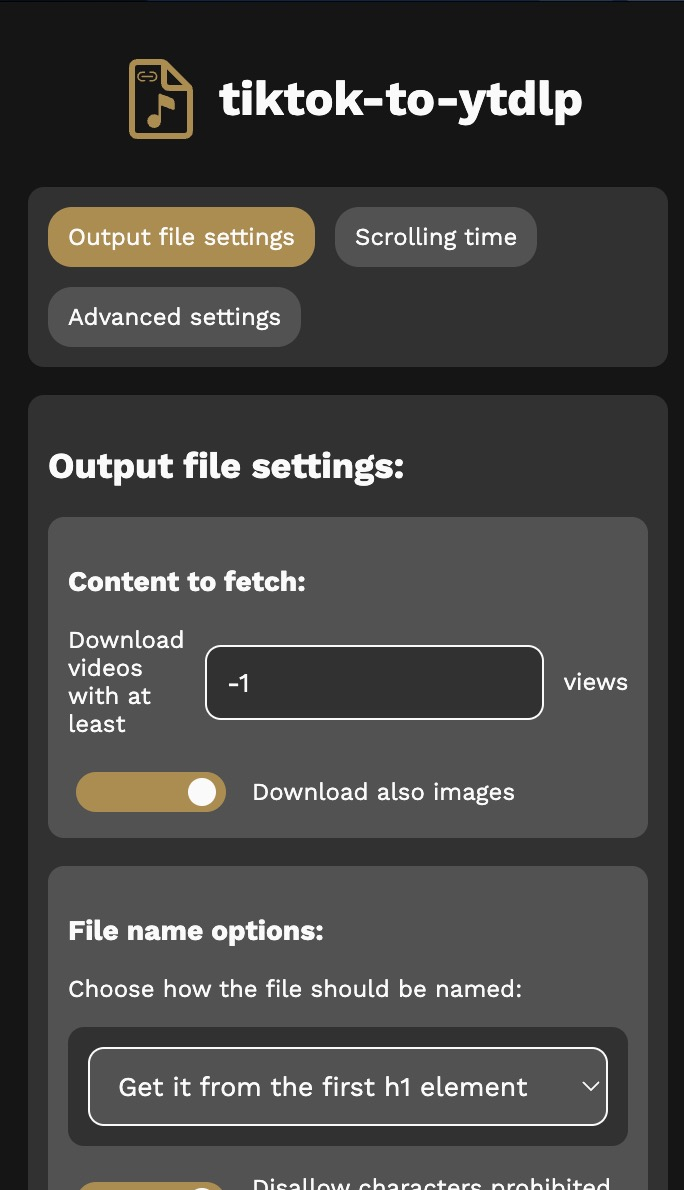
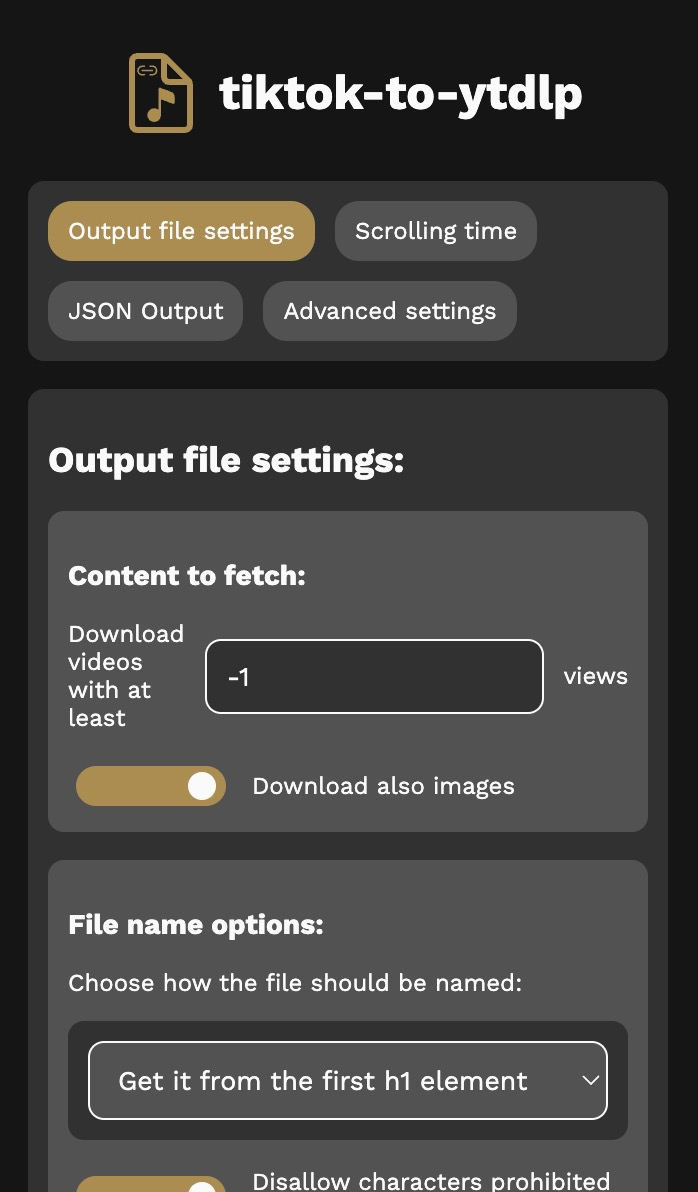
Customize JSON output & general script improvements (#20)
- Customize JSON output: it's now possible to choose which keys should be saved in the output JSON file, both from the console and from the extension (https://github.com/Dinoosauro/tiktok-to-ytdlp/pull/19#issuecomment-2192085901)
- Changed how the extension handles older Firefox versions that don't support the "chrome" namespace
- Now a "source.zip" file is built for the extension release, that contains everything necessary for building the extension
- Improved the usage of variables in the script: only the global values are stored with "var" so that they can be re-written in Gecko and WebKit, but there is no need to use them in the functions
- Improved the script documentation, by adding descriptions directly tied to functions and variables

diff --git a/script.js b/script.js
@@ -1,4 +1,4 @@
-// Using var so that the script can be re-used also in WebKit & Gecko
+// Using var in the global part of the script so that the script can be re-used also in WebKit & Gecko
 var scriptOptions = {
     scrolling_min_time: 1300, // Change the mininum time the script will try to refresh the page
     scrolling_max_time: 2100, // Change the maxinum time the script will try to refresh the page
@@ -8,6 +8,7 @@ var scriptOptions = {
     adapt_text_output: true, // Replace characters that are prohibited on Windows
     allow_images: true, // Save also TikTok Image URLs
     export_format: "txt", // Put "json" to save everything as a JSON file.
+    exclude_from_json: [], // If you plan to export the content in a JSON file, here you can exclude some properties from the JSON output. You can exclude "url", "views", "caption".
     advanced: {
         get_array_after_scroll: false, // Gets the item links after the webpage is fully scrolled, and not after every scroll.
         get_link_by_filter: true, // Get the website link by inspecting all the links in the container div, instead of looking for data references.
@@ -21,7 +22,11 @@ var scriptOptions = {
         isResolveTime: false
     }
 }
-function nodeElaborateCustomArgs(customTypes) { // A function that is able to read a double array, composed with [["the property name", "the property value"]], and change the value of the scriptOptions array
+/**
+ * A function that is able to read a double array, composed with `[["the property name", "the property value"]]`, and change the value of the scriptOptions array
+ * @param {string[][]} customTypes the double array
+ */
+function nodeElaborateCustomArgs(customTypes) {
     if ((customTypes ?? "") !== "") { // If the provided value isn't nullish
         customTypes.forEach(e => { // Get each value
             var optionChange = e[0].split("=>"); // The arrow (=>) is used to indicate that the property is in a nested object (ex: advanced=>log_link_error).
@@ -31,8 +36,17 @@ function nodeElaborateCustomArgs(customTypes) { // A function that is able to re
 }
 // SCRIPT START:
 var height = document.body.scrollHeight;
-var containerSets = new Map([]);
-var skipLinks = []; // Array: [Video link to skip]
+/**
+ * A Map that contains the video URL as its key, and the video views and caption as its value
+ */
+var containerMap = new Map([]);
+/**
+ * The array of video links to skip
+ */
+var skipLinks = [];
+/**
+ * Scroll the webpage
+ */
 function loadWebpage() {
     if (document.querySelectorAll(".tiktok-qmnyxf-SvgContainer").length === 0) { // Checks if the SVG loading animation is present in the DOM
         window.scrollTo({ top: document.body.scrollHeight, behavior: 'smooth' }); // Scroll to the bottom of the page
@@ -40,7 +54,7 @@ function loadWebpage() {
             if (height !== document.body.scrollHeight) { // The webpage has scrolled the previous time, so we can try another scroll
                 if (!scriptOptions.advanced.get_array_after_scroll) {
                     addArray();
-                    if (scriptOptions.advanced.maximum_downloads < (Array.from(containerSets).length + skipLinks.length)) { // If the number of fetched items is above the permitted one, download the script and don't do anything.
+                    if (scriptOptions.advanced.maximum_downloads < (Array.from(containerMap).length + skipLinks.length)) { // If the number of fetched items is above the permitted one, download the script and don't do anything.
                         ytDlpScript();
                         return;
                     }
@@ -67,50 +81,80 @@ function loadWebpage() {
         }, 1000);
     }
 }
+/**
+ * Elaborate items in the page
+ */
 function addArray() {
-    var getClass = document.querySelectorAll(".tiktok-x6y88p-DivItemContainerV2, .css-x6y88p-DivItemContainerV2, .css-1soki6-DivItemContainerForSearch"); // Class of every video container
-    for (var i = 0; i < getClass.length; i++) {
-        // Simple information scraping: the link (getLink) is put in the first array, while the views (getViews) are put in the second one
-        if (!getClass[i]) continue; // Skip nullish results
-        var getLink = scriptOptions.advanced.get_link_by_filter ? Array.from(getClass[i].querySelectorAll("a")).filter(e => e.href.indexOf("/video/") !== -1 || e.href.indexOf("/photo/") !== -1)[0]?.href : getClass[i].querySelector("[data-e2e=user-post-item-desc], [data-e2e=user-liked-item], [data-e2e=music-item], [data-e2e=user-post-item], [data-e2e=favorites-item], [data-e2e=challenge-item], [data-e2e=search_top-item]")?.querySelector("a")?.href; // If the new filter method is selected, the script will look for the first link that contains a video link structure. Otherwise, the script'll look for data tags that contain the video URL.
+    for (const tikTokItem of document.querySelectorAll(".tiktok-x6y88p-DivItemContainerV2, .css-x6y88p-DivItemContainerV2, .css-1soki6-DivItemContainerForSearch")) { // Class of every video container
+        if (!tikTokItem) continue; // Skip nullish results
+        const getLink = scriptOptions.advanced.get_link_by_filter ? Array.from(tikTokItem.querySelectorAll("a")).filter(e => e.href.indexOf("/video/") !== -1 || e.href.indexOf("/photo/") !== -1)[0]?.href : tikTokItem.querySelector("[data-e2e=user-post-item-desc], [data-e2e=user-liked-item], [data-e2e=music-item], [data-e2e=user-post-item], [data-e2e=favorites-item], [data-e2e=challenge-item], [data-e2e=search_top-item]")?.querySelector("a")?.href; // If the new filter method is selected, the script will look for the first link that contains a video link structure. Otherwise, the script'll look for data tags that contain the video URL.
         if (!scriptOptions.allow_images && getLink.indexOf("/photo/") !== -1) continue; // Avoid adding photo if the user doesn't want to.
         if (scriptOptions.advanced.check_nullish_link && (getLink ?? "") === "") { // If the script needs to check if the link is nullish, and it's nullish...
             if (scriptOptions.advanced.log_link_error) console.log("SCRIPT ERROR: Failed to get link!"); // If the user wants to print the error in the console, write it
             continue; // And, in general, continue with the next link.
         }
         if (skipLinks.indexOf(getLink) === -1) {
-            var views = getClass[i].querySelector("[data-e2e=video-views]")?.innerHTML ?? "0";
-            var caption = getClass[i].querySelector(".css-vi46v1-DivDesContainer a span")?.textContent;
-            containerSets.set(getLink, { views: `${views.replace(".", "").replace("K", "00").replace("M", "00000")}${(views.indexOf("K") !== -1 || views.indexOf("M") !== -1) && views.indexOf(".") === -1 ? "0" : ""}`, caption })
+            const views = tikTokItem.querySelector("[data-e2e=video-views]")?.innerHTML ?? "0";
+            const caption = tikTokItem.querySelector(".css-vi46v1-DivDesContainer a span")?.textContent;
+            containerMap.set(getLink, { views: `${views.replace(".", "").replace("K", "00").replace("M", "00000")}${(views.indexOf("K") !== -1 || views.indexOf("M") !== -1) && views.indexOf(".") === -1 ? "0" : ""}`, caption })
         }
     }
 }
-function sanitizeName(name) { // Replace a name with allowed Windows characters.
+/**
+ * Replace a name with allowed Windows characters.
+ * @param {string} name 
+ * @returns the "sanitized" string
+ */
+function sanitizeName(name) {
     return name.replaceAll("<", "‹").replaceAll(">", "›").replaceAll(":", "∶").replaceAll("\"", "″").replaceAll("/", "∕").replaceAll("\\", "∖").replaceAll("|", "¦").replaceAll("?", "¿").replaceAll("*", "");
 }
+/**
+ * Delete the keys that the user doesn't want in the output JSON
+ * @param {any} obj 
+ * @returns the object without those keys
+ */
+function deleteUnrequestedContent(obj) {
+    for (const key in obj) if (scriptOptions.exclude_from_json.indexOf(key) !== -1) delete obj[key];
+    if (Object.keys(obj).length === 1) return obj[Object.keys(obj)[0]];
+    return obj;
+}
+/**
+ * Generate the output file
+ * @returns if running on Node, a string array or an Object. If running on the console, undefined.
+ */
 function ytDlpScript() {
     addArray(); // Add the last elements in the DOM, or all the elements if get_array_after_scroll is set to true.
     // Create the txt file with all of the TikTok links.
-    var ytDlpScript = scriptOptions.export_format === "json" ? [] : "";
-    for (var [url, obj] of Array.from(containerSets)) {
+    let ytDlpScript = scriptOptions.export_format === "json" ? [] : "";
+    for (const [url, obj] of Array.from(containerMap)) {
         if (+obj.views < scriptOptions.min_views) continue;
-        scriptOptions.export_format === "json" ? ytDlpScript.push({ ...obj, url }) : ytDlpScript += `${url}\n`;
+        scriptOptions.export_format === "json" ? ytDlpScript.push(deleteUnrequestedContent({ ...obj, url })) : ytDlpScript += `${url}\n`;
     }
     if (scriptOptions.node.isNode && !scriptOptions.node.isResolveTime) return getWhatToReturn(ytDlpScript); else downloadScript(typeof ytDlpScript === "object" ? JSON.stringify(ytDlpScript) : ytDlpScript); // If the user has requested from Node to get the array, get it
 }
-function getWhatToReturn(content) { // Get if a JSON object array should be returned, or if a splitted string.
+/**
+ * Get if a JSON object array should be returned, or if a splitted string.
+ * @param {any | string} content the content that needs to be returned
+ * @returns the content to return
+ */
+function getWhatToReturn(content) {
     return typeof content === "object" ? content : content.split("\n");
 }
-function downloadScript(script, force) { // Download the script text to a file
+/**
+ * Download the script text to a file
+ * @param {string} script the content of the output file
+ * @param {boolean} force force download of the script, even if on Node
+ */
+function downloadScript(script, force) {
     if (scriptOptions.node.isNode && !force) {
         if (scriptOptions.node.isResolveTime) scriptOptions.node.resolve(getWhatToReturn(script)); else return getWhatToReturn(script);
         scriptOptions.node.resolve = null;
         scriptOptions.node.isResolveTime = false;
         return;
     }
-    var blob = new Blob([script], { type: "text/plain" }); // Create a blob with the text
-    var link = document.createElement("a");
-    var name = `TikTokLinks.${scriptOptions.export_format}`; // Set the standard name
+    const blob = new Blob([script], { type: "text/plain" }); // Create a blob with the text
+    const link = document.createElement("a");
+    let name = `TikTokLinks.${scriptOptions.export_format}`; // Set the standard name
     switch (scriptOptions.output_name_type) { // Look at the type of the name
         case 0: // Fetch name from data tags
             name = document.querySelector("[data-e2e=user-title]")?.textContent.trim() ?? document.querySelector("[data-e2e=browse-username]")?.firstChild?.textContent.trim() ?? document.querySelector("[data-e2e=browse-username]")?.textContent.trim() ?? document.querySelector("[data-e2e=challenge-title]")?.textContent.trim() ?? document.querySelector("[data-e2e=music-title]")?.textContent.trim() ?? `TikTokLinks.${scriptOptions.export_format}`;
@@ -129,12 +173,15 @@ function downloadScript(script, force) { // Download the script text to a file
     link.click();
     URL.revokeObjectURL(link.href);
 }
+/**
+ * Write requestTxtNow() in the console to obtain the .txt file while converting. Useful if you have lots of items, and you want to start downloading them.
+ * @returns the current script
+ */
 function requestTxtNow() {
-    // Write requestTxtNow() in the console to obtain the .txt file while converting. Useful if you have lots of items, and you want to start downloading them.
-    var value = ytDlpScript();
+    const value = ytDlpScript();
     if (scriptOptions.delete_from_next_txt) { // If delete_from_next_txt is enabled, delete the old items, so that only the newer ones will be downloaded.
-        skipLinks.push(...Array.from(containerSets).map(item => item[0]));
-        containerSets = new Map([]);
+        skipLinks.push(...Array.from(containerMap).map(item => item[0]));
+        containerMap = new Map([]);
     }
     return value;
 }

diff --git a/extension/script.min.js b/extension/script.min.js
@@ -1,0 +1,2 @@
+var scriptOptions={scrolling_min_time:1300,scrolling_max_time:2100,min_views:-1,delete_from_next_txt:!0,output_name_type:2,adapt_text_output:!0,allow_images:!0,export_format:"txt",exclude_from_json:[],advanced:{get_array_after_scroll:!1,get_link_by_filter:!0,check_nullish_link:!0,log_link_error:!0,maximum_downloads:1/0},node:{resolve:null,isNode:!1,isResolveTime:!1}};function nodeElaborateCustomArgs(e){""!==(e??"")&&e.forEach(e=>{var t=e[0].split("=>");1===t.length?scriptOptions[e[0]]=e[1]:scriptOptions[t[0]][t[1]]=e[1]})}var height=document.body.scrollHeight,containerMap=new Map([]),skipLinks=[];function loadWebpage(){0===document.querySelectorAll(".tiktok-qmnyxf-SvgContainer").length?(window.scrollTo({top:document.body.scrollHeight,behavior:"smooth"}),setTimeout(()=>{height!==document.body.scrollHeight?!scriptOptions.advanced.get_array_after_scroll&&(addArray(),scriptOptions.advanced.maximum_downloads<Array.from(containerMap).length+skipLinks.length)?ytDlpScript():setTimeout(()=>{height=document.body.scrollHeight,loadWebpage()},Math.floor(Math.random()*scriptOptions.scrolling_max_time+scriptOptions.scrolling_min_time)):setTimeout(()=>{0===document.querySelectorAll(".tiktok-qmnyxf-SvgContainer").length&&height==document.body.scrollHeight?(scriptOptions.node.isResolveTime=!0,ytDlpScript(),skipLinks=[]):loadWebpage()},3500)},150)):setTimeout(function(){loadWebpage()},1e3)}function addArray(){for(var e of document.querySelectorAll(".tiktok-x6y88p-DivItemContainerV2, .css-x6y88p-DivItemContainerV2, .css-1soki6-DivItemContainerForSearch")){var t,o;e&&(t=(scriptOptions.advanced.get_link_by_filter?Array.from(e.querySelectorAll("a")).filter(e=>-1!==e.href.indexOf("/video/")||-1!==e.href.indexOf("/photo/"))[0]:e.querySelector("[data-e2e=user-post-item-desc], [data-e2e=user-liked-item], [data-e2e=music-item], [data-e2e=user-post-item], [data-e2e=favorites-item], [data-e2e=challenge-item], [data-e2e=search_top-item]")?.querySelector("a"))?.href,!scriptOptions.allow_images&&-1!==t.indexOf("/photo/")||(scriptOptions.advanced.check_nullish_link&&""===(t??"")?scriptOptions.advanced.log_link_error&&console.log("SCRIPT ERROR: Failed to get link!"):-1===skipLinks.indexOf(t)&&(o=e.querySelector("[data-e2e=video-views]")?.innerHTML??"0",e=e.querySelector(".css-vi46v1-DivDesContainer a span")?.textContent,containerMap.set(t,{views:""+o.replace(".","").replace("K","00").replace("M","00000")+(-1===o.indexOf("K")&&-1===o.indexOf("M")||-1!==o.indexOf(".")?"":"0"),caption:e}))))}}function sanitizeName(e){return e.replaceAll("<","‹").replaceAll(">","›").replaceAll(":","∶").replaceAll('"',"″").replaceAll("/","∕").replaceAll("\\","∖").replaceAll("|","¦").replaceAll("?","¿").replaceAll("*","")}function deleteUnrequestedContent(e){for(var t in e)-1!==scriptOptions.exclude_from_json.indexOf(t)&&delete e[t];return 1===Object.keys(e).length?e[Object.keys(e)[0]]:e}function ytDlpScript(){addArray();let e="json"===scriptOptions.export_format?[]:"";for(var[t,o]of Array.from(containerMap))+o.views<scriptOptions.min_views||("json"===scriptOptions.export_format?e.push(deleteUnrequestedContent({...o,url:t})):e+=t+`
+`);if(scriptOptions.node.isNode&&!scriptOptions.node.isResolveTime)return getWhatToReturn(e);downloadScript("object"==typeof e?JSON.stringify(e):e)}function getWhatToReturn(e){return"object"==typeof e?e:e.split("\n")}function downloadScript(e,t){if(scriptOptions.node.isNode&&!t)return scriptOptions.node.isResolveTime?(scriptOptions.node.resolve(getWhatToReturn(e)),scriptOptions.node.resolve=null,void(scriptOptions.node.isResolveTime=!1)):getWhatToReturn(e);t=new Blob([e],{type:"text/plain"}),e=document.createElement("a");let o="TikTokLinks."+scriptOptions.export_format;switch(scriptOptions.output_name_type){case 0:o=document.querySelector("[data-e2e=user-title]")?.textContent.trim()??document.querySelector("[data-e2e=browse-username]")?.firstChild?.textContent.trim()??document.querySelector("[data-e2e=browse-username]")?.textContent.trim()??document.querySelector("[data-e2e=challenge-title]")?.textContent.trim()??document.querySelector("[data-e2e=music-title]")?.textContent.trim()??"TikTokLinks."+scriptOptions.export_format;break;case 1:o=document.title.substring(0,document.title.indexOf(" | TikTok"))+"."+scriptOptions.export_format;break;case 2:o=`${document.querySelector("h1")?.textContent.trim()??"TikTokLinks"}.`+scriptOptions.export_format}"string"==typeof scriptOptions.output_name_type&&(o=scriptOptions.output_name_type),scriptOptions.adapt_text_output&&(o=sanitizeName(o)),e.href=URL.createObjectURL(new File([t],o,{type:"text/plain"})),e.download=o,e.click(),URL.revokeObjectURL(e.href)}function requestTxtNow(){var e=ytDlpScript();return scriptOptions.delete_from_next_txt&&(skipLinks.push(...Array.from(containerMap).map(e=>e[0])),containerMap=new Map([])),e}function startDownload(e){if(""!==(e??"")&&(scriptOptions.output_name_type=e),scriptOptions.node.isNode)return new Promise(e=>{scriptOptions.node.resolve=e,loadWebpage()});loadWebpage()}nodeElaborateCustomArgs(),startDownload();

diff --git a/extension/code/vite/src/App.svelte b/extension/code/vite/src/App.svelte
@@ -8,6 +8,7 @@
   import Settings from "./lib/Settings/SettingsContainer";
   import { slide } from "svelte/transition";
   import Icon from "./assets/icon.svg";
+  import JsonOutput from "./lib/Settings/JsonOutput.svelte";
   /**
    * The settings section shown
    */
@@ -22,18 +23,20 @@
    */
   let isFirstEvent = true;
   let isAuthorizedForTikTok = true;
+  const newBrowser: typeof chrome =
+    typeof chrome === "undefined" ? browser : chrome; // For older Firefox versions
   Settings.subscribe((settingUpdate) => {
     if (isFirstEvent) {
       isFirstEvent = false;
       return;
     }
-    (chrome ?? browser).storage.sync.set({ settings: settingUpdate });
+    newBrowser.storage.sync.set({ settings: settingUpdate });
   });
   /**
    * Checks if the extension is authorized to access TikTok website
    */
   async function checkPermission() {
-    isAuthorizedForTikTok = await (chrome ?? browser).permissions.contains({
+    isAuthorizedForTikTok = await newBrowser.permissions.contains({
       origins: ["*://*.tiktok.com/*"],
     });
   }
@@ -53,13 +56,13 @@
       return update;
     }
     checkPermission();
-    (chrome ?? browser).storage.sync
+    newBrowser.storage.sync
       .get("settings")
       .then(
         (obj) => ($Settings = UpdateJsonProperties(obj.settings, $Settings)),
       );
 
-    (chrome ?? browser).runtime.onMessage.addListener(
+    newBrowser.runtime.onMessage.addListener(
       (msg) => (isConverting = msg.operation), // Currently, messages from the content_script are sent only when the value of the operation changes
     );
     sendMessage({ action: "requestOperation", content: "" }); // Asks if there's a script operation ongoing.
@@ -85,8 +88,8 @@
    * @param msg the message to send
    */
   async function sendMessage(msg: MessageProps) {
-    const ids = await (chrome ?? browser).tabs.query({ active: true });
-    (chrome ?? browser).tabs.sendMessage(ids[0].id as number, msg);
+    const ids = await newBrowser.tabs.query({ active: true });
+    newBrowser.tabs.sendMessage(ids[0].id as number, msg);
   }
 </script>
 
@@ -106,7 +109,7 @@
     <br />
     <button
       on:click={async () => {
-        await (chrome ?? browser).permissions.request({
+        await newBrowser.permissions.request({
           origins: ["*://*.tiktok.com/*"],
         });
         checkPermission();
@@ -121,6 +124,7 @@
       providedOptions={[
         { id: "output", text: "Output file settings", selected: true },
         { id: "scrollTime", text: "Scrolling time" },
+        { id: "json", text: "JSON Output" },
         { id: "advanced", text: "Advanced settings" },
       ]}
     ></OptionPicker><br />
@@ -128,6 +132,8 @@
       <Output></Output>
     {:else if section === "scrollTime"}
       <Scrolling></Scrolling>
+    {:else if section === "json"}
+      <JsonOutput></JsonOutput>
     {:else if section === "advanced"}
       <Advanced></Advanced>
     {/if}<br />

diff --git a/extension/build.js b/extension/build.js
@@ -1,14 +1,23 @@
 const fs = require("fs");
 const zip = require("jszip");
+const sep = require("path").sep;
+// BUILDING OUTPUT
 (fs.existsSync("output")) && fs.rmSync("output", { recursive: true });
 fs.mkdirSync("output");
-require("child_process").execSync("cd code/vite && npm i && npx vite build --base=ui");
-require("fs-extra").moveSync(`./code/vite/dist`, `./output/ui`);
-fs.mkdirSync("output/icons");
-for (let item of ["manifest.json", "icons/16.png", "icons/48.png", "icons/128.png"]) fs.copyFileSync(`./code/${item}`, `./output/${item}`);
-let firstScript = fs.readFileSync(`../script.js`, "utf-8");
+require("child_process").execSync(`cd code${sep}vite && npm i && npx vite build --base=ui`);
+require("fs-extra").moveSync(`.${sep}code${sep}vite${sep}dist`, `.${sep}output${sep}ui`);
+fs.mkdirSync(`output${sep}icons`);
+for (let item of ["manifest.json", `icons${sep}16.png`, `icons${sep}48.png`, `icons${sep}128.png`]) fs.copyFileSync(`code${sep}${item}`, `output${sep}${item}`);
+let firstScript = fs.readFileSync(`..${sep}script.js`, "utf-8");
 firstScript = firstScript.substring(0, firstScript.indexOf("nodeElaborateCustomArgs();"));
-fs.writeFileSync(`./output/extensionHandler.js`, `${firstScript}${fs.readFileSync("./code/extensionHandler.js", "utf-8")}`);
+fs.writeFileSync(`output${sep}extensionHandler.js`, `${firstScript}${fs.readFileSync(`code${sep}extensionHandler.js`, "utf-8")}`);
 const zipFile = new zip();
-for (let file of fs.readdirSync("./output", { recursive: true })) if (fs.statSync(`./output/${file}`).isFile()) zipFile.file(file, fs.readFileSync(`./output/${file}`), { createFolders: true });
+for (let file of fs.readdirSync("output", { recursive: true })) if (fs.statSync(`output${sep}${file}`).isFile()) zipFile.file(file, fs.readFileSync(`output${sep}${file}`), { createFolders: true });
 zipFile.generateAsync({ type: "nodebuffer" }).then((buffer) => fs.writeFileSync("output.zip", buffer));
+// BUILDING SOURCE CODE ZIP
+const sourceCode = new zip();
+sourceCode.file(`README.md`, `# Build instrutions\n\nYou can find instructions to build this extension in the "extension" folder.\n\nRequirements: Node JS 20; NPM. Tested only on macOS and Linux.`);
+sourceCode.file("script.js", fs.readFileSync(`..${sep}script.js`));
+for (const item of ["build.js", "package.json", "package-lock.json", "README.md"]) sourceCode.file(`extension${sep}${item}`, fs.readFileSync(item));
+for (const item of fs.readdirSync("code", { recursive: true }).filter(item => item.indexOf("node_modules") === -1)) if (fs.statSync(`code${sep}${item}`).isFile()) sourceCode.file(`extension${sep}code${sep}${item}`, fs.readFileSync(`code${sep}${item}`));
+sourceCode.generateAsync({ type: "nodebuffer" }).then((buffer) => fs.writeFileSync("source.zip", buffer));

diff --git a/extension/code/vite/src/lib/Settings/JsonOutput.svelte b/extension/code/vite/src/lib/Settings/JsonOutput.svelte
@@ -1,0 +1,41 @@
+<script lang="ts">
+    import { slide } from "svelte/transition";
+    import Card from "../Card.svelte";
+    import Settings from "./SettingsContainer";
+    function changeJson(e: Event, str: string) {
+        (e.target as HTMLInputElement).checked
+            ? $Settings.exclude_from_json.push(str)
+            : $Settings.exclude_from_json.splice(
+                  $Settings.exclude_from_json.indexOf(str),
+                  1,
+              );
+        $Settings.exclude_from_json = $Settings.exclude_from_json;
+    }
+</script>
+
+<div in:slide={{ duration: 500 }} out:slide={{ duration: 500 }}>
+    <Card>
+        <h2>JSON output:</h2>
+        <p>
+            Choose which elements will be deleted from the JSON output. If you
+            keep only one item, the output will be a string array.
+        </p>
+        <br />
+        {#each ["url", "views", "caption"] as item}
+            <label class="flex hcenter autoGap">
+                <input
+                    type="checkbox"
+                    checked={$Settings.exclude_from_json.indexOf(item) !== -1}
+                    on:change={(e) => changeJson(e, item)}
+                />
+                Exclude {item} from the output JSON
+            </label><br />
+        {/each}
+    </Card>
+</div>
+
+<style>
+    input {
+        background-color: var(--input);
+    }
+</style>

diff --git a/extension/code/extensionHandler.js b/extension/code/extensionHandler.js
@@ -2,9 +2,9 @@
  * Send to the UI the current "conversion" status
  */
 function updateClient() {
-    (chrome ?? browser).runtime.sendMessage((chrome ?? browser).runtime.id, { operation: scriptOptions.node.resolve && !scriptOptions.node.isResolveTime });
+    (typeof chrome === "undefined" ? browser : chrome).runtime.sendMessage((typeof chrome === "undefined" ? browser : chrome).runtime.id, { operation: scriptOptions.node.resolve && !scriptOptions.node.isResolveTime });
 }
-(chrome ?? browser).runtime.onMessage.addListener((message) => {
+(typeof chrome === "undefined" ? browser : chrome).runtime.onMessage.addListener((message) => {
     switch (message.action) {
         case "start": { // Start running the script
             scriptOptions = { ...scriptOptions, ...message.content }; // Add the values from the object provided

diff --git a/extension/code/vite/src/lib/Settings/SettingsContainer.ts b/extension/code/vite/src/lib/Settings/SettingsContainer.ts
@@ -9,6 +9,7 @@ let Settings = writable({
     adapt_text_output: true, // Replace characters that are prohibited on Windows
     allow_images: true, // Save also TikTok Image URLs
     export_format: "txt",
+    exclude_from_json: [], // If you plan to export the content in a JSON file, here you can exclude some properties from the JSON output. You can exclude "url", "views", "caption".
     advanced: {
         get_array_after_scroll: false, // Gets the item links after the webpage is fully scrolled, and not after every scroll.
         get_link_by_filter: true, // Get the website link by inspecting all the links in the container div, instead of looking for data references.

diff --git a/README.md b/README.md
@@ -41,7 +41,9 @@ If you need to download a really long list of TikTok, you may want to start
 downloading them while the page continues scrolling. To do that, you can
 download an intermediate file, that will contain all of the links up to the
 point the page has scrolled. To do that, write in the console `requestTxtNow()`,
-press enter and a `TikTokLinks.txt` file will be downloaded.
+press enter and a `TikTokLinks.txt` file will be downloaded. If you're using the
+extension, you can find a "Get partial file" button. Click it and the file will
+be automatically downloaded.
 
 By default, the links in the first intermediate files will be deleted from the
 final (or the second/third etc. file if you want to download more intermediate
@@ -72,6 +74,11 @@ useful settings:
   name.
 - `allow_images`: save also TikTok photos (if disabled, only videos will be
   fetched).
+- `export_format`: you can choose if you want to save the result as a TXT file
+  (`txt`) or as a JSON file (`json`)
+- `exclude_from_json`: populate this array with the keys you don't want to save
+  in your JSON file. By default, the JSON file has the `url`, `caption` and
+  `views` keys.
 
 ### Advanced script options
 
